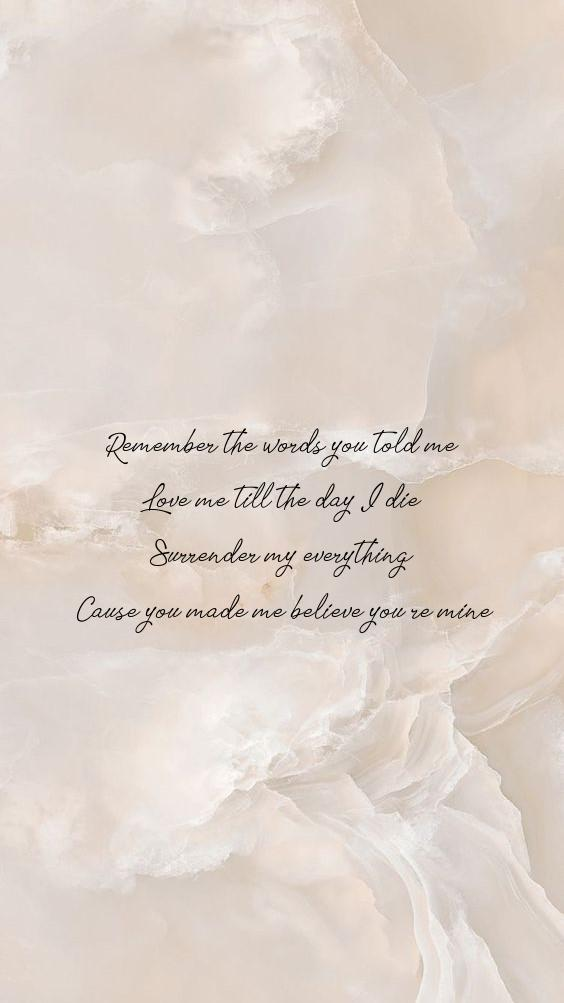
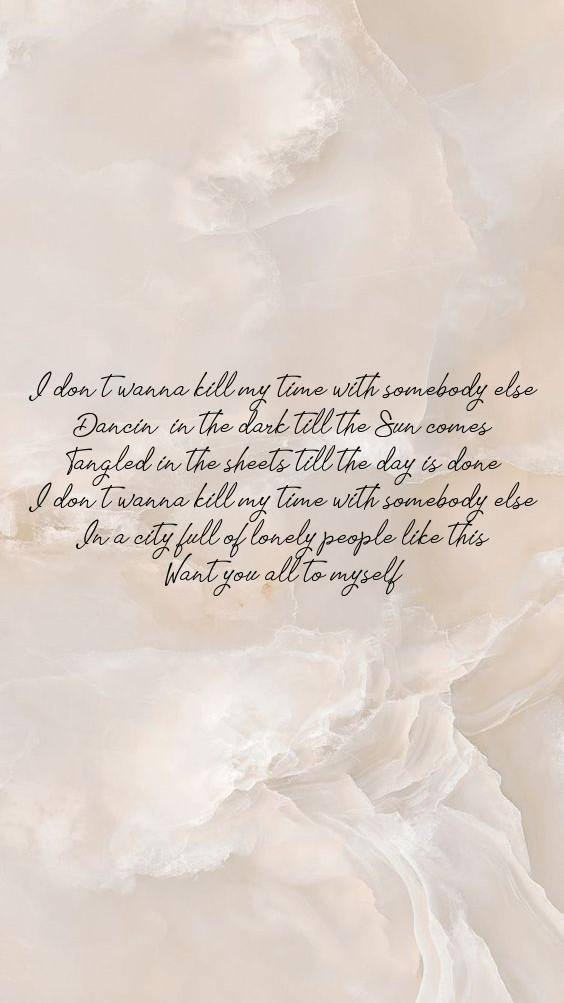
centered text on image

Changed region(s): [[0.0603, 0.3709, 0.9344, 0.6491]]

diff --git a/templates/lyricsSelected.html b/templates/lyricsSelected.html
@@ -8,4 +8,6 @@
             </li>
         </ul>
     {% endfor %}
+
+    <img src="output_image.jpg" alt="Lyrics">
 {% endblock %}

diff --git a/helpers.py b/helpers.py
@@ -13,37 +13,18 @@ def setup():
                 key, value = line[len("export "):].split("=", 1)
                 os.environ[key] = value
 
-
-
-from PIL import Image, ImageDraw, ImageFont
-
-def draw_text_on_image(text):
+def draw_text_on_image(list: list[str]):
+    #accepts list of strings and turns it into str separated by \n
+    text = list_to_str(list=list)
     image = Image.open("templates/bgs/marble.jpg")
     draw = ImageDraw.Draw(image)
     w, h = image.size
+    print(w, h)
 
     # Specify the font and size
-    font = ImageFont.truetype(r'C:\Users\arjan\OneDrive\Desktop\coding\finalProject\templates\fonts\Tomatoes-O8L8.ttf', 20)
-
-    # Calculate the center of the image
-    center_x = w // 2
-    center_y = h // 2
-
-    # Calculate the total height of the text
-    total_text_height = len(text) * (font.getsize(" ")[1] + 10)
-    
-    # Calculate the starting Y position
-    position_y = center_y - (total_text_height // 2)
-
-    # Specify the text color (R, G, B)
-    text_color = (255, 255, 255)
-
-    # Add the text to the image
-    for item in text:
-        text_width, text_height = draw.textsize(item, font)
-        position_x = center_x - (text_width // 2)
-        draw.text((position_x, position_y), item, fill='black', font=font)
-        position_y += text_height + 10
+    font = ImageFont.truetype(r'templates\fonts\Tomatoes-O8L8.ttf', 20)
+        
+    draw.multiline_text((w/2, h/2), text, align='center', fill='black', font=font, anchor='mm')
 
     # Save the modified image
     image.save("output_image.jpg")
@@ -51,3 +32,9 @@ def draw_text_on_image(text):
     # Close the image
     image.close()
 
+def list_to_str(list: list[str]):
+    newStr = ''
+    for item in list:
+        newStr += item
+        newStr +='\n'
+    return newStr
